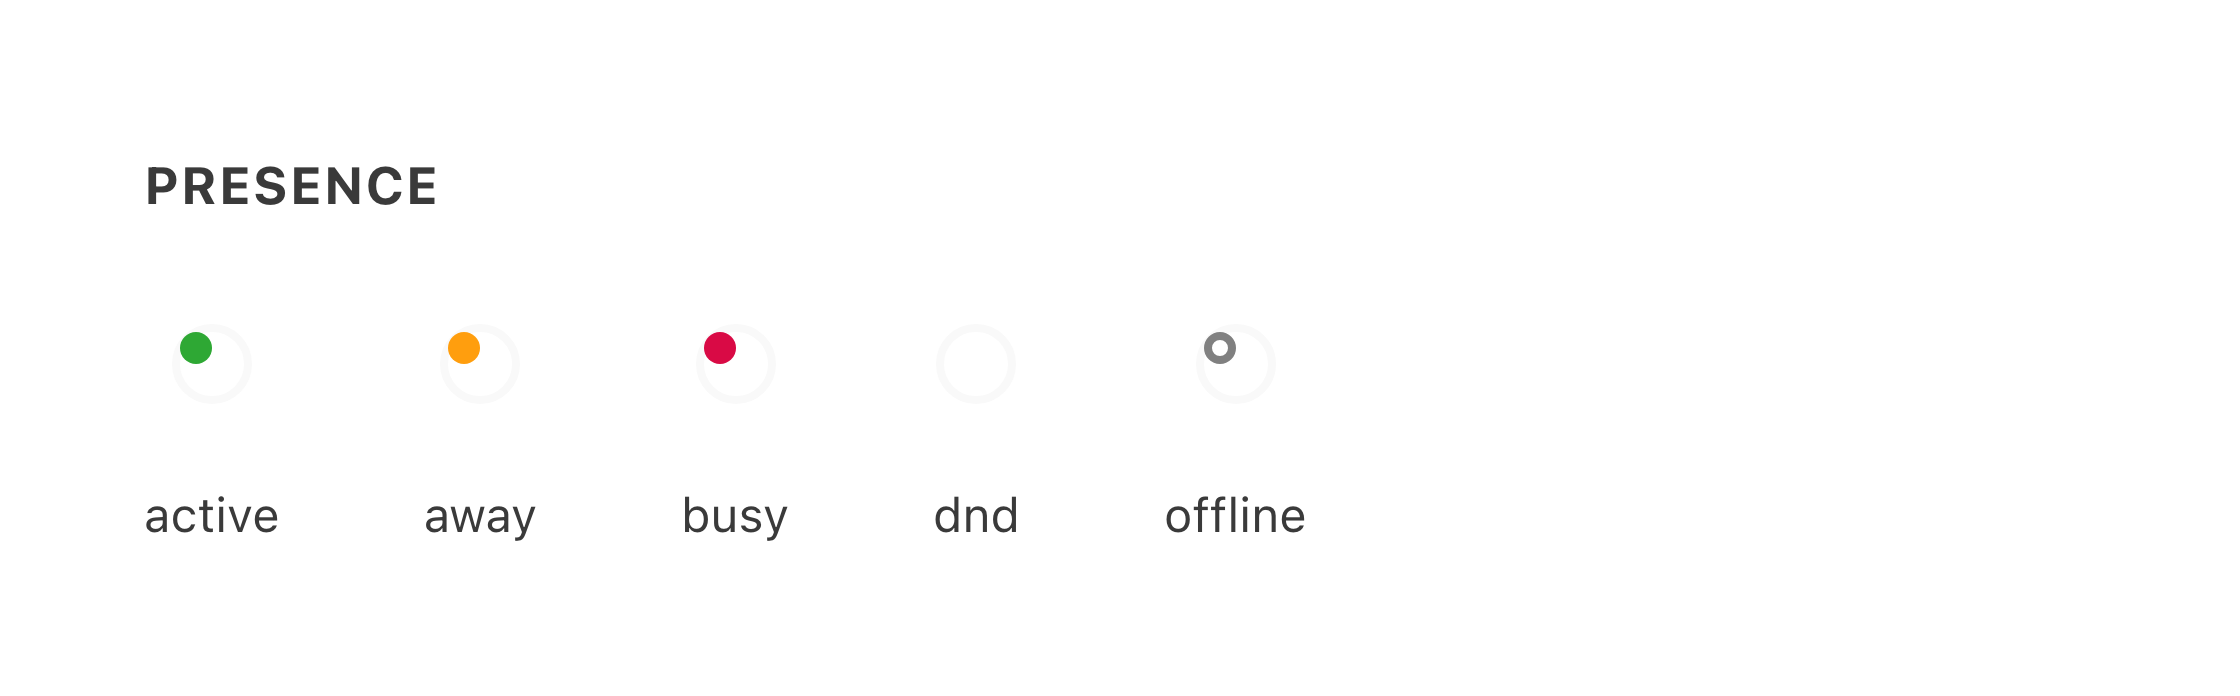
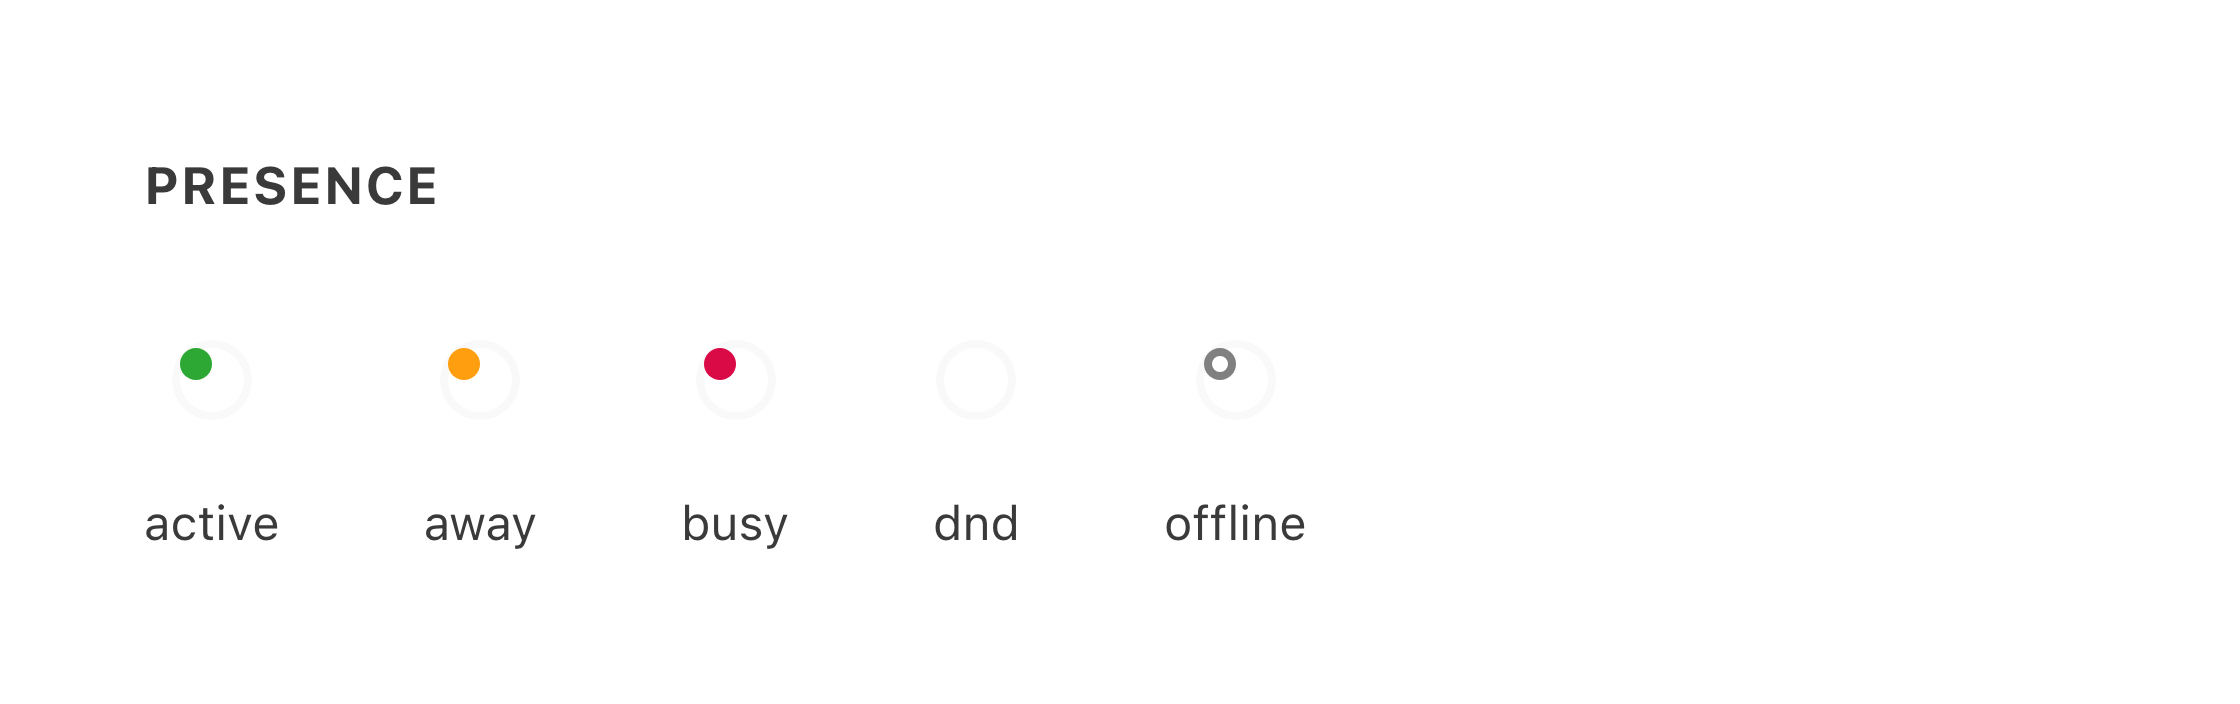
fix(documentation): DLT-3469 center presence indicators in fixed-height slots
The row bottom-aligned each indicator, so variants whose rendered box
differs slightly (offline) floated off the shared line.

diff --git a/apps/dialtone-documentation/scripts/visual-guide/scenes/component-presence.vue b/apps/dialtone-documentation/scripts/visual-guide/scenes/component-presence.vue
@@ -15,10 +15,12 @@
         :key="p"
         style="text-align:center;"
       >
-        <dt-presence
-          :presence="p"
-          class="vg-presence-size"
-        />
+        <div style="height:28px;display:flex;align-items:center;justify-content:center;">
+          <dt-presence
+            :presence="p"
+            class="vg-presence-size"
+          />
+        </div>
         <p class="vg-caption">
           {{ p }}
         </p>
